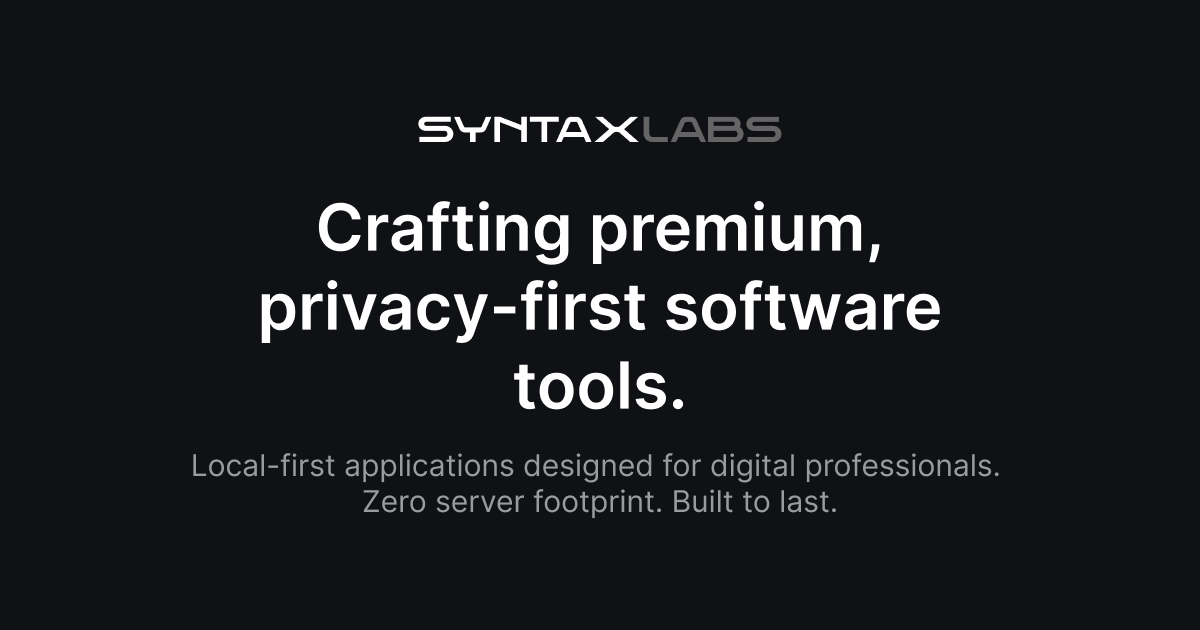
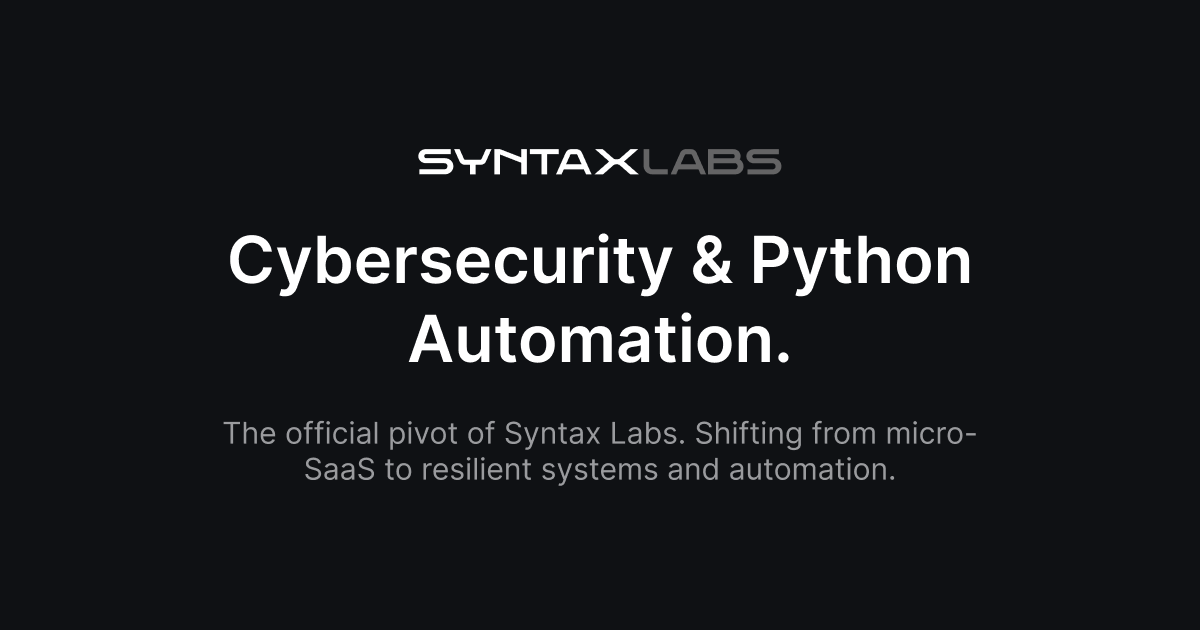
Update site content for pivot and update OG image

Changed region(s): [[0.1542, 0.181, 0.8325, 0.8143]]

diff --git a/index.html b/index.html
@@ -3,24 +3,24 @@
 <head>
   <meta charset="UTF-8" />
   <meta name="viewport" content="width=device-width, initial-scale=1.0" />
-  <meta name="description" content="Syntax Labs — Crafting premium, privacy-first software tools. Local-first applications for digital professionals." />
+  <meta name="description" content="Syntax Labs — Pivoting from micro-SaaS to Cybersecurity and Python Automation." />
 
   <link rel="icon" href="favicon.svg" type="image/svg+xml" />
 
   <meta property="og:type" content="website" />
   <meta property="og:url" content="https://syntaxlabsapp.com/" />
-  <meta property="og:title" content="Syntax Labs — Premium Local-First Software" />
-  <meta property="og:description" content="Syntax Labs — Crafting premium, privacy-first software tools. Local-first applications for digital professionals." />
+  <meta property="og:title" content="Syntax Labs — Cybersecurity & Python Automation" />
+  <meta property="og:description" content="Syntax Labs — Pivoting from micro-SaaS to Cybersecurity and Python Automation." />
   <meta property="og:image" content="https://syntaxlabsapp.com/open-graph.png" />
   <meta property="og:image:width" content="1200" />
   <meta property="og:image:height" content="630" />
 
   <meta name="twitter:card" content="summary_large_image" />
-  <meta name="twitter:title" content="Syntax Labs — Premium Local-First Software" />
-  <meta name="twitter:description" content="Syntax Labs — Crafting premium, privacy-first software tools. Local-first applications for digital professionals." />
+  <meta name="twitter:title" content="Syntax Labs — Cybersecurity & Python Automation" />
+  <meta name="twitter:description" content="Syntax Labs — Pivoting from micro-SaaS to Cybersecurity and Python Automation." />
   <meta name="twitter:image" content="https://syntaxlabsapp.com/open-graph.png" />
 
-  <title>Syntax Labs — Premium Local-First Software</title>
+  <title>Syntax Labs — Cybersecurity & Python Automation</title>
 
   <!-- Inter from Google Fonts -->
   <link rel="preconnect" href="https://fonts.googleapis.com" />
@@ -106,25 +106,24 @@
       <div class="container">
 
         <h1 class="hero__heading reveal reveal-delay-1" id="hero-heading">
-          Crafting premium,<br />
-          <span class="accent">privacy-first</span> software tools.
+          Pivoting to Cybersecurity<br />
+          <span class="accent">&amp; Python Automation.</span>
         </h1>
 
         <p class="hero__subheading reveal reveal-delay-2">
-          Local-first applications designed for digital professionals.
-          Zero server footprint. Built to last.
+          After a year of building micro-SaaS, Syntax Labs is shifting focus toward resilient infrastructure, security, and automated workflows.
         </p>
 
         <div class="hero__actions reveal reveal-delay-3">
-          <a href="#projects" class="btn btn--primary">
+          <a href="https://youtu.be/uuSedsByRvQ" target="_blank" rel="noopener noreferrer" class="btn btn--primary">
             <!-- Arrow icon -->
             <svg width="14" height="14" viewBox="0 0 14 14" fill="none" xmlns="http://www.w3.org/2000/svg" aria-hidden="true">
               <path d="M3 7H11M11 7L7.5 3.5M11 7L7.5 10.5" stroke="currentColor" stroke-width="1.5" stroke-linecap="round" stroke-linejoin="round"/>
             </svg>
-            Explore Products
+            Watch the Full Story
           </a>
-          <a href="mailto:hello@syntaxlabsapp.com" class="btn btn--ghost">
-            Get in touch
+          <a href="#projects" class="btn btn--ghost">
+            Legacy Projects
           </a>
         </div>
 
@@ -136,9 +135,9 @@
     <section class="bento-section" id="projects" aria-labelledby="projects-heading">
       <div class="container">
 
-        <p class="section-label reveal">Products</p>
+        <p class="section-label reveal">Archived Work</p>
         <h2 class="bento-section__heading reveal reveal-delay-1" id="projects-heading">
-          Tools built for<br />focused workflows.
+          Legacy Micro-Tools<br />&amp; Projects.
         </h2>
 
         <div class="bento-grid" role="list">
@@ -250,14 +249,14 @@
     <section class="values-section" aria-labelledby="values-heading">
       <div class="container">
 
-        <p class="section-label reveal">Our Principles</p>
+        <p class="section-label reveal">The New Direction</p>
         <h2 class="values-section__heading reveal reveal-delay-1" id="values-heading">
-          How we think about software.
+          My current technical focus.
         </h2>
 
         <div class="values-grid" role="list">
 
-          <!-- Local-First -->
+          <!-- Security-First -->
           <div class="value-item reveal" role="listitem">
             <div class="value-icon" aria-hidden="true">
               <svg viewBox="0 0 24 24" fill="none" xmlns="http://www.w3.org/2000/svg">
@@ -266,30 +265,26 @@
                 <path d="M12 17V21" stroke="currentColor" stroke-width="1.5" stroke-linecap="round"/>
               </svg>
             </div>
-            <h3 class="value-title">Local-First</h3>
+            <h3 class="value-title">Security-First</h3>
             <p class="value-desc">
-              Your data lives on your device. Always. We build apps that work
-              offline, run without accounts, and never phone home.
-              Ownership is non-negotiable.
+              Focusing on data integrity, secure architectures, and building resilient systems from the ground up.
             </p>
           </div>
 
-          <!-- Premium UX -->
+          <!-- Deep Automation -->
           <div class="value-item reveal reveal-delay-1" role="listitem">
             <div class="value-icon" aria-hidden="true">
               <svg viewBox="0 0 24 24" fill="none" xmlns="http://www.w3.org/2000/svg">
                 <path d="M12 2L14.09 8.26L21 9.27L16 14.14L17.18 21.02L12 17.77L6.82 21.02L8 14.14L3 9.27L9.91 8.26L12 2Z" stroke="currentColor" stroke-width="1.5" stroke-linecap="round" stroke-linejoin="round"/>
               </svg>
             </div>
-            <h3 class="value-title">Premium UX</h3>
+            <h3 class="value-title">Deep Automation</h3>
             <p class="value-desc">
-              Every interaction is intentional. We obsess over typography,
-              motion, and feedback loops to deliver software that feels
-              genuinely refined — not just functional.
+              Replacing repetitive manual tasks and inefficient processes with robust Python scripts and automated pipelines.
             </p>
           </div>
 
-          <!-- No Bloat -->
+          <!-- Continuous Learning -->
           <div class="value-item reveal reveal-delay-2" role="listitem">
             <div class="value-icon" aria-hidden="true">
               <svg viewBox="0 0 24 24" fill="none" xmlns="http://www.w3.org/2000/svg">
@@ -297,11 +292,9 @@
                 <path d="M8 12H16" stroke="currentColor" stroke-width="1.5" stroke-linecap="round"/>
               </svg>
             </div>
-            <h3 class="value-title">No Bloat</h3>
+            <h3 class="value-title">Continuous Learning</h3>
             <p class="value-desc">
-              One tool, one purpose. We cut features ruthlessly so
-              nothing slows you down. Small binaries, fast cold starts,
-              and no feature-creep. Ever.
+              Stepping away from the traditional "build in public" rat race to master network security and complex technical concepts.
             </p>
           </div>
 
